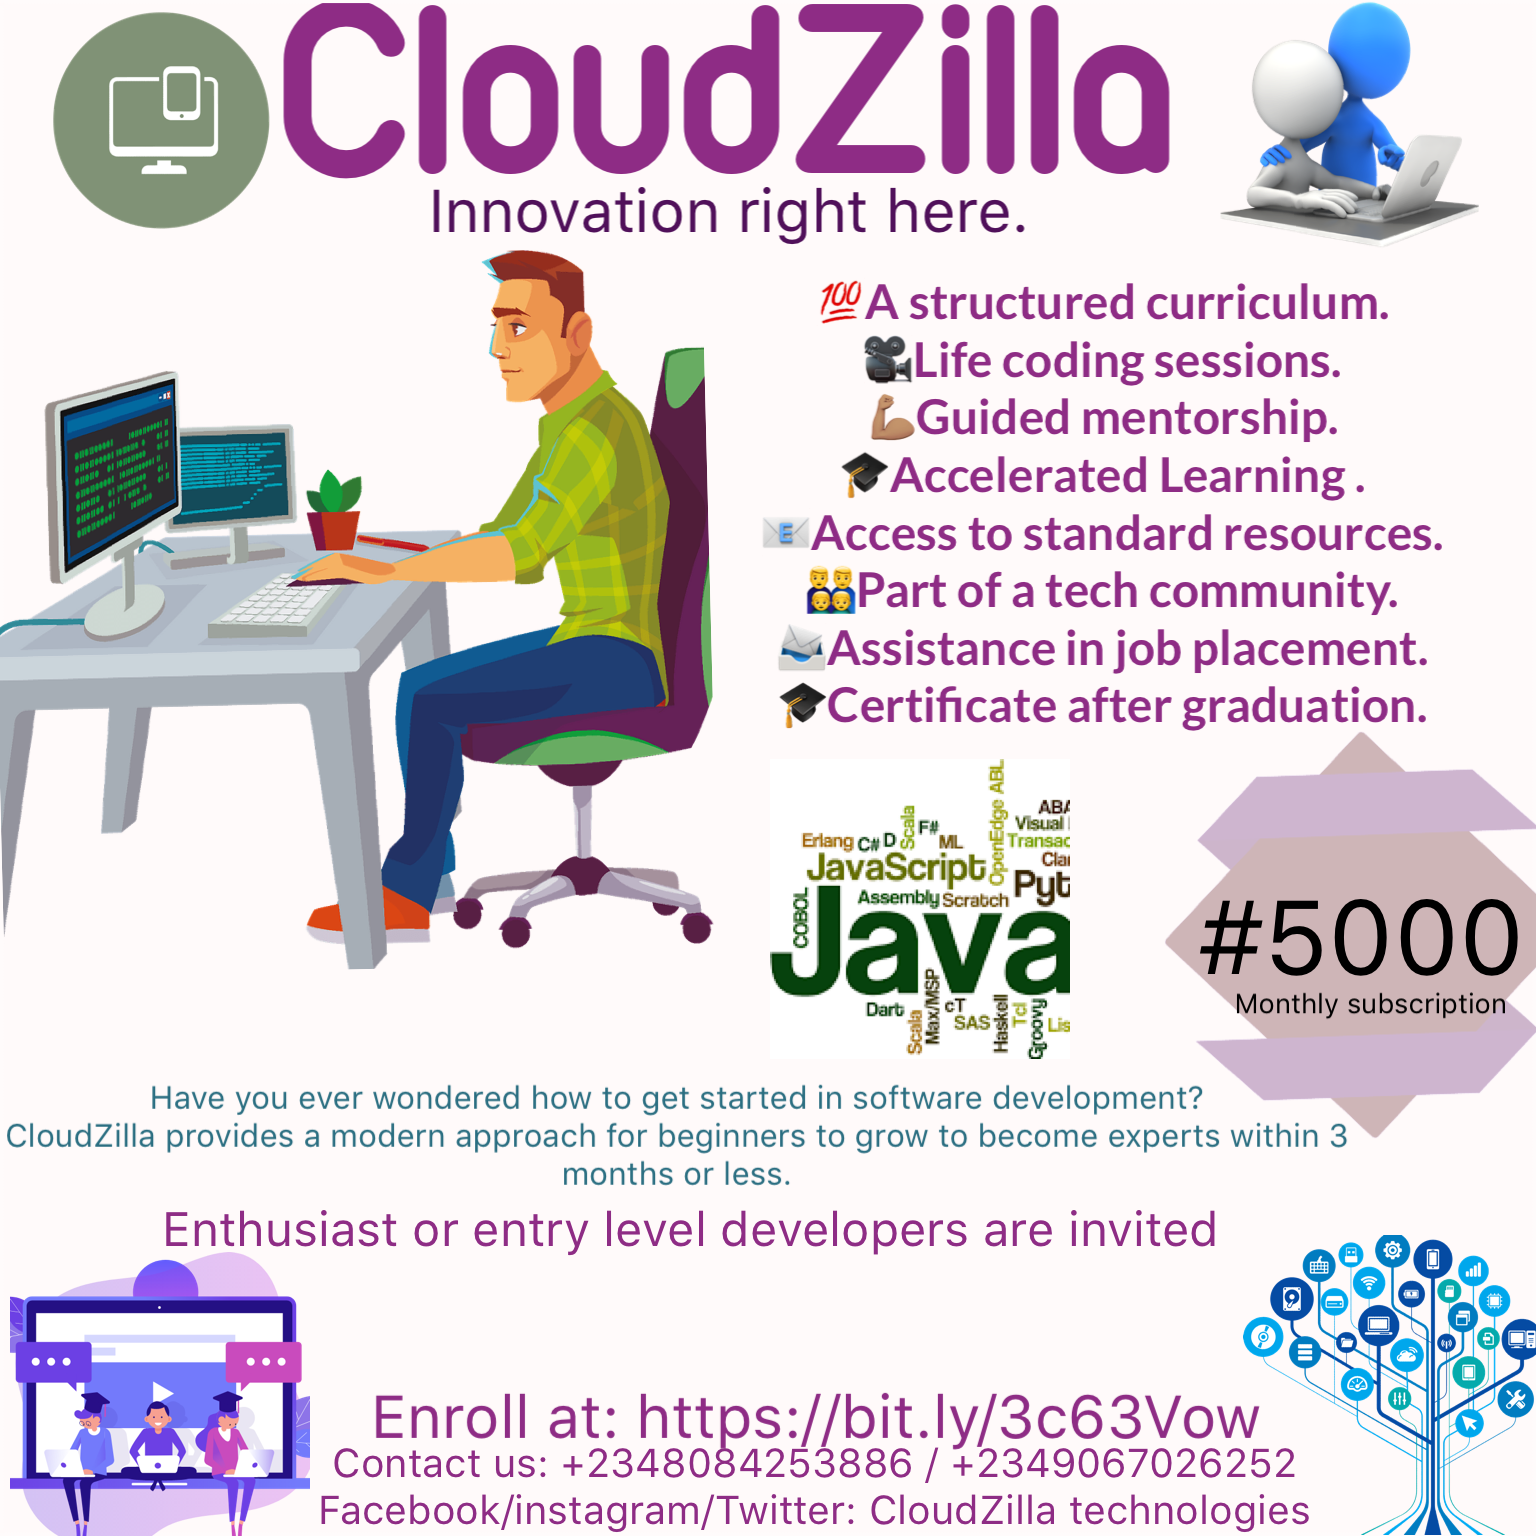
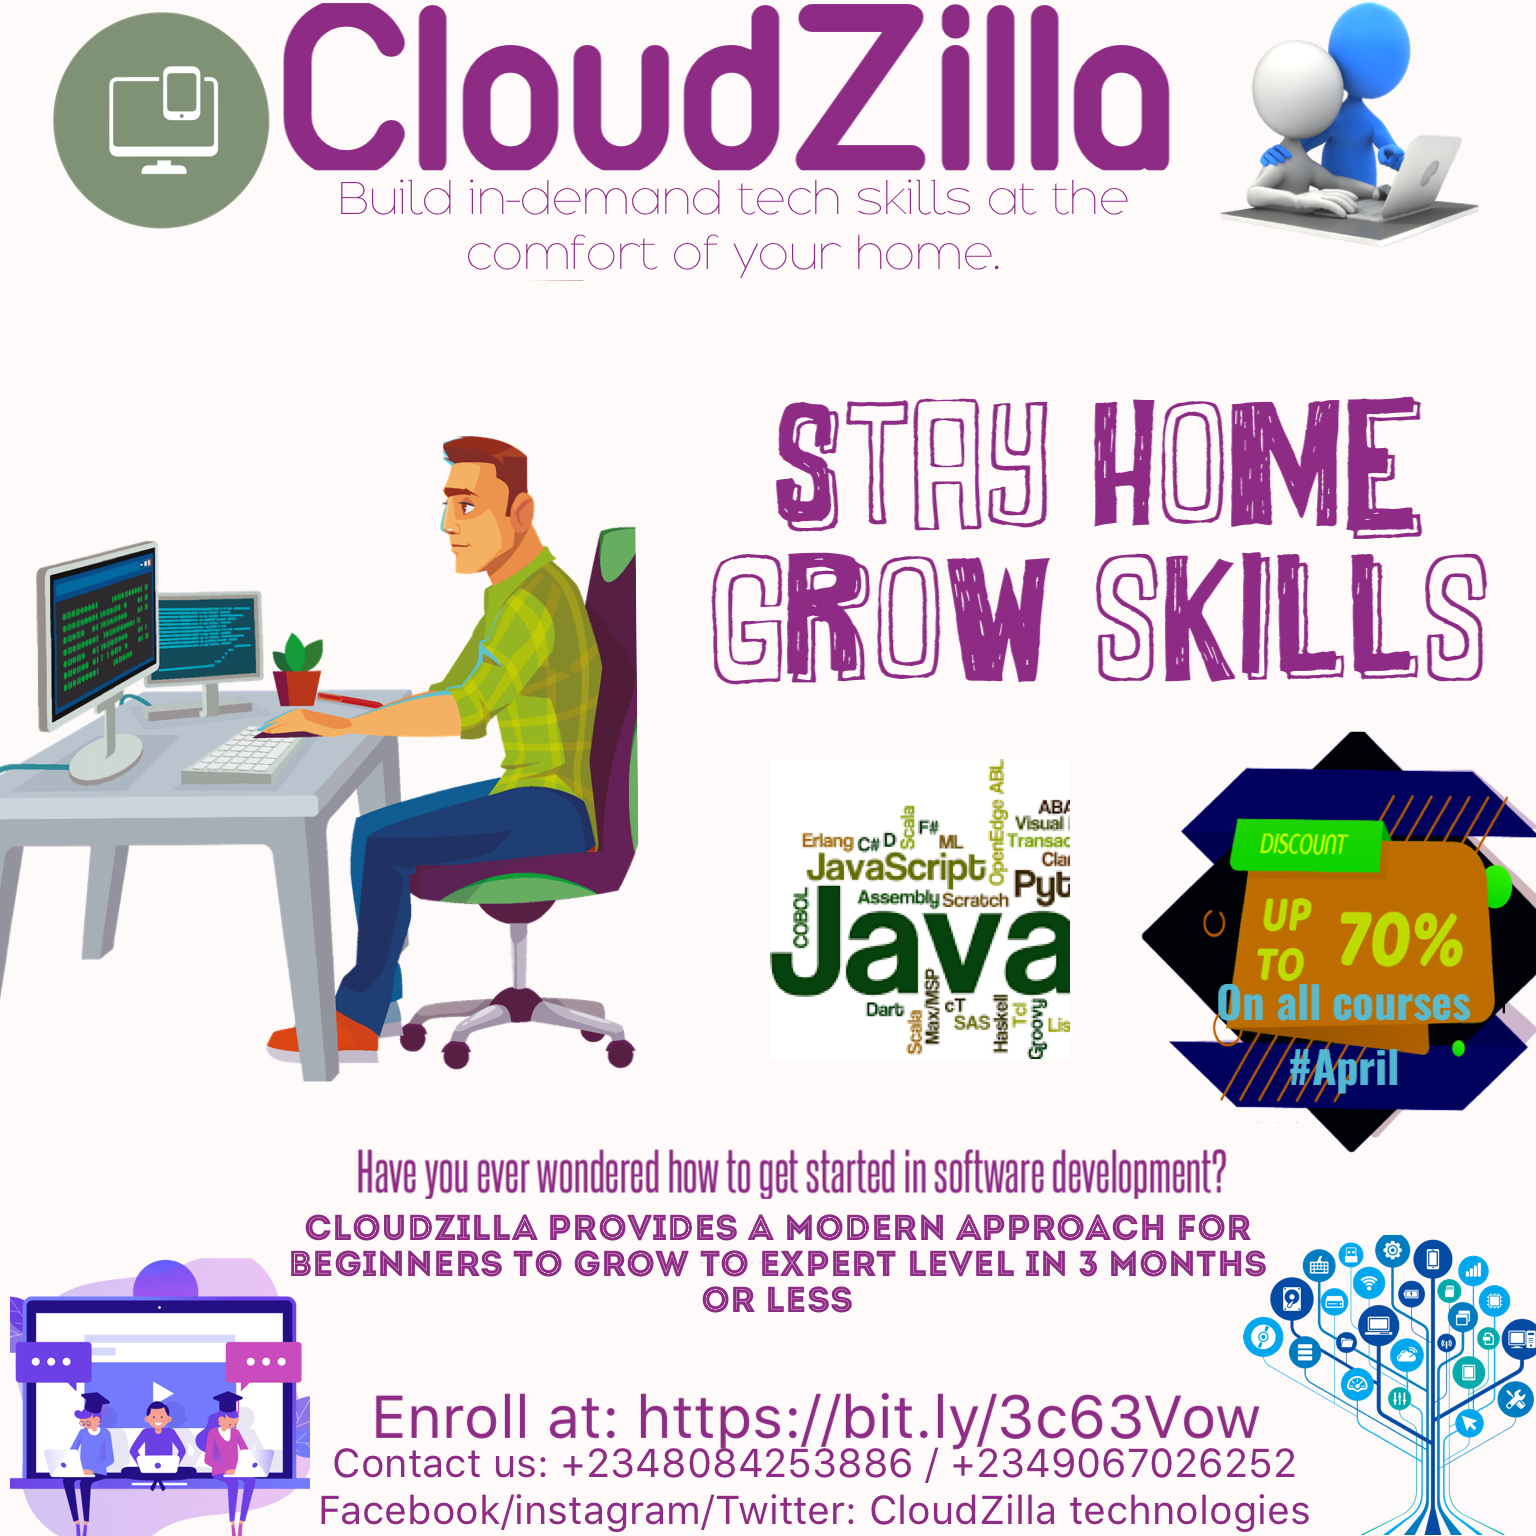
added special offer

Changed region(s): [[0.0, 0.0938, 1.0, 0.875], [0.2188, 0.0938, 0.25, 0.125]]

diff --git a/index.html b/index.html
@@ -28,6 +28,8 @@
     <meta name="theme-color" content="#ffffff">
     <!-- Place favicon.ico in the root directory -->
 
+    <link href="https://stackpath.bootstrapcdn.com/font-awesome/4.7.0/css/font-awesome.min.css" />
+
     <!-- CSS here -->
     <link rel="stylesheet" href="css/bootstrap.min.css">
     <link rel="stylesheet" href="css/owl.carousel.min.css">
@@ -120,9 +122,13 @@
                     </div>
                     <div class="col-xl-6 col-md-6">
                         <div class="slider_info">
-                            <h3>Learn Tech<br>
-                                Grow Skills <br>
-                                Get Empowered</h3>
+                            <br><br>
+                            <h3 style="color: #ffffff;" class="mt-5">STAY HOME<br>
+                                GROW SKILLS <br>
+                                <b>WE'RE IN THIS TOGETHER</b>
+                                <p style="padding-top: 10px; color: #ffffff;"><strong style="font-weight:900;font-size:larger;">Build high in-demand tech skills from the comfort of your home </strong></p>
+                                </h3>
+                                
                             <a href="https://docs.google.com/forms/d/e/1FAIpQLSfZMP0plJX5A1RzjX6RUZipsaUmwzLUROui9Y9F6WslIGFPpA/viewform" class="boxed_btn">Enroll for training </a>
                         </div>
                     </div>
@@ -281,12 +287,34 @@
                                             </div>
                                         </div>
                                     </div>
-                                   
-
+                                    
+                                    <div class="col-xl-12  text-center">
+                                        
+                                        <span class="star" style="color: gold;">
+                                            <i class="flaticon-mark-as-favorite-star"></i>
+                                        </span>
+                                        <span class="star" style="color: gold;">
+                                            <i class="flaticon-mark-as-favorite-star"></i>
+                                        </span>
+                                        <span class="star" style="color: gold;">
+                                            <i class="flaticon-mark-as-favorite-star"></i>
+                                        </span> <b>SPECIAL OFFER</b>
+                                        <span class="star" style="color: gold;">
+                                            <i class="flaticon-mark-as-favorite-star"></i>
+                                        </span>
+                                        <span class="star" style="color: gold;">
+                                            <i class="flaticon-mark-as-favorite-star"></i>
+                                        </span>
+                                        <span class="star" style="color: gold;">
+                                            <i class="flaticon-mark-as-favorite-star"></i>
+                                        </span>
+                                       
+                                    </div>
+                                
 
                                     <div class="col-xl-12">
                                         <div class="more_courses text-center">
-                                            <a href="#" class="boxed_btn_rev">
+                                            <a class="boxed_btn_rev">
                                                 <img class="img-fluid" src="img/training.png"/>
                                             </a>
                                         </div>

diff --git a/about.html b/about.html
@@ -85,12 +85,7 @@
                             </div>
                         </div>
                         <div class="col-xl-3 col-lg-3 d-none d-lg-block">
-                            <!-- <div class="log_chat_area d-flex align-items-center">
-                                <a href="#test-form" class="login popup-with-form">
-                                    <i class="flaticon-user"></i>
-                                    <span>log in</span>
-                                </a> -->
-                                <div class="live_chat_btn">
+                            <div class="live_chat_btn">
                                     <a class="boxed_btn_orange" href="tel:+2349067026252">
                                         <i class="fa fa-phone"></i>
                                         <span>+234 9067026252</span>
@@ -123,6 +118,9 @@
                             <h3> Cloudzilla Tech .</h3>
                                 <h4> Innovation Right here!</h4>
                             <p>Cloudzilla is a tech hive; that provides budding developers with Quality Education, Accelerated learning and guided mentor ship in the Software development. We help businesses, enthusiasts and entrepreneurs grow and build software solutions for their community. </p>
+
+                           
+                            
                             <a href="https://docs.google.com/forms/d/e/1FAIpQLSfZMP0plJX5A1RzjX6RUZipsaUmwzLUROui9Y9F6WslIGFPpA/viewform" class="boxed_btn">Enroll Today</a>
                         </div>
                     </div>
@@ -205,7 +203,7 @@
                         </div>
                         <h3>Guided mentorship</h3>
                         <p>
-                            Access to a mentors in your field to support and help you make progress in your skills.
+                            Access to a mentor in your field to support and help you make progress in your skills.
                         </p>
                     </div>
                 </div>
@@ -240,7 +238,7 @@
                         </div>
                         <h3>Join a thriving tech community</h3>
                         <p>
-                            Communities add a huge amount of context to everything we do at cloudzilla . They provide learners with a sounding board to make sure they're on the right track. 
+                            Communities add a huge amount of context to everything we do at cloudzilla . They provide learners with a sound board to make sure they're on the right track. 
                         </p>
                     </div>
                 </div>
